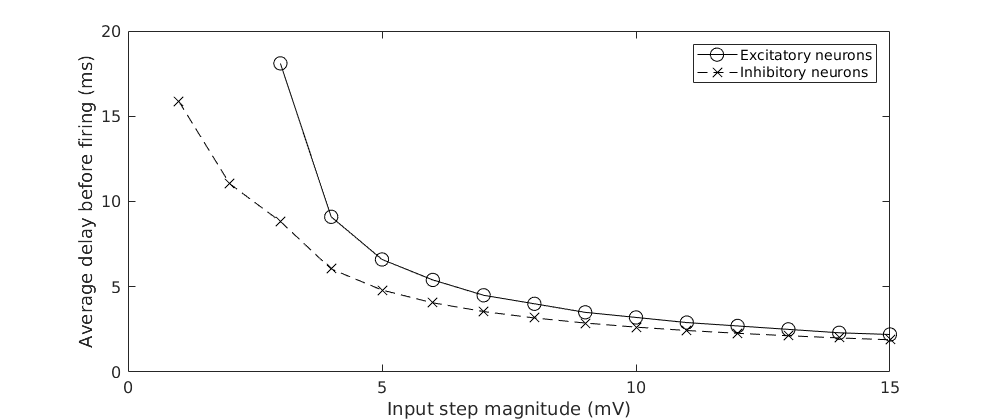
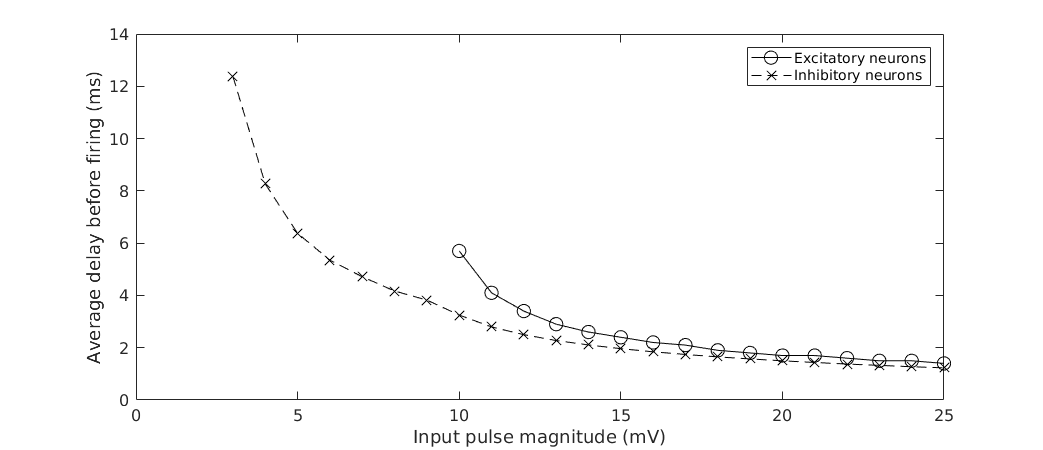
More speed updates

diff --git a/sync_paper/Delay synchronization.tex b/sync_paper/Delay synchronization.tex
@@ -315,10 +315,18 @@ This leads to each neuron receiving a stronger stimulus from the passing wave.
 The input current may push the neuron's dynamical system out of equilibrium and cause a spike, but the system dynamics take some time to evolve.
 Therefore the spike will occur with some delay after the stimulus.
 This is a common behavior in any multidimensional model of neuron dynamics, but it is not captured by the leaky integrate-and-fire model used in much of the previous research \cite{keane2015}\cite{senk2020}.
-We tested this spike delay by exposing populations of excitatory and inhibitory neurons to current steps of different magnitudes \cite{izhikevich}.
+Figure \ref{fig:delay_neuronstep} shows the delayed response of a neuron to a pulse of current.
+\begin{figure}[!htb]
+ \caption{ A pulse of current (bottom) starting at $t=100 ms$ and lasting $2 ms$ disturbs the equilibrium membrane potential of a neuron (top), elicitng a spike at $t=112 ms$. }
+ \label{fig:delay_neuronstep}
+ \centering
+   \includegraphics[width=\textwidth]{fig/WaveSpeed_NeuronStepTest}
+\end{figure}
+
+We characterized this spike delay by exposing populations of excitatory and inhibitory neurons to $2 ms$ current pulses of different magnitudes \cite{izhikevich}.
 The average firing delay of the excitatory and inhibitory neurons is shown in Figure \ref{fig:delay_neurondynamics}.
 The inhibitory neurons have a lower firing threshold than the excitatory neurons and fire with a shorter delay when given the same stimulus.
-Both excitatory and inhibitory neurons can take over $10ms$ to fire when the spike is elicited by a weak stimulus.
+Both excitatory and inhibitory neurons exhibit a delayed response of several $ms$ or more.
 \begin{figure}[!htb]
  \caption{ A stronger stimulus creates a spike with less delay. The excitatory neurons have a higher firing threshold than the inhibitory neurons and do not emit a spike for very weak stimulus.}
  \label{fig:delay_neurondynamics}

diff --git a/sim/lsm/FiringDelayTest.m b/sim/lsm/FiringDelayTest.m
@@ -31,18 +31,19 @@ delay.dt = dt;
 
 vall = []; uall = [];
 
-currentStepMag = 1:15;
+currentStepMag = 1:25;
 
 %Make column
 [a,b,c,d, S, delays, ecn] = makeColumnParameters(structure, connectivity, delay);
     
 fdelExc = [];
+    
 for jj=1:length(currentStepMag)
     %Step stimulus to all neurons at t=100 milliseconds
     stImpulse = zeros(N, size(t,2));
     sidx = 100/dt;
-    stImpulse(:, sidx:end)= currentStepMag(jj);
-    stImpulse = (interp1(0:tmax, stImpulse(:,1:1/dt:end)', 0:dt:tmax))';    
+    stImpulse(:, sidx:sidx+floor(2/dt))= currentStepMag(jj);
+    stImpulse = (interp1(0:tmax, stImpulse(:,1:1/dt:end)', 0:dt:tmax))'; 
 
     %Simulate column
     vinit=-65*ones(N,1)+0*rand(N,1);    % Initial values of v
@@ -79,13 +80,13 @@ connectivity.percentExc = 0; %All inhibitory neurons
 [a,b,c,d, S, delays, ecn] = makeColumnParameters(structure, connectivity, delay);
     
 fdelInhb = [];
-for jj=1:length(currentStepMag)
+for jj=1:length(currentStepMag)   
     %Step stimulus to all neurons at t=100 milliseconds
     stImpulse = zeros(N, size(t,2));
     sidx = 100/dt;
-    stImpulse(:, sidx:end)= currentStepMag(jj);
-    stImpulse = (interp1(0:tmax, stImpulse(:,1:1/dt:end)', 0:dt:tmax))';    
-
+    stImpulse(:, sidx:sidx+floor(2/dt))= currentStepMag(jj);
+    stImpulse = (interp1(0:tmax, stImpulse(:,1:1/dt:end)', 0:dt:tmax))'; 
+    
     %Simulate column
     vinit=-65*ones(N,1)+0*rand(N,1);    % Initial values of v
     uinit=b.*vinit;                 % Initial values of u
@@ -119,6 +120,6 @@ end
 figure; 
 plot(currentStepMag, fdelExc-100, 'ko-','MarkerSize', 10);
 hold on; plot(currentStepMag, fdelInhb-100, 'kx--','MarkerSize', 10);
-xlabel('Input step magnitude (mV)'); ylabel('Average delay before firing (ms)');
+xlabel('Input pulse magnitude (mV)'); ylabel('Average delay before firing (ms)');
 legend(['Excitatory neurons'; 'Inhibitory neurons']);
 set(gca,'FontSize', 12);

diff --git a/sim/lsm/ExcitatoryWaveSim.m b/sim/lsm/ExcitatoryWaveSim.m
@@ -30,9 +30,10 @@ delay.dt = dt;
         
 pidx=1;
 nTrials = 100;
-percentExc = 0.3:0.025:1;
+%percentExc = 0.3:0.025:1;
+percentExc = 1;
 stimStrength = 5;
-figure(20); subplot(length(percentExc),1,1); hold on;
+%figure(20); subplot(length(percentExc),1,1); hold on;
 for kk = 1:length(percentExc)
     connectivity.percentExc = percentExc(kk);
     waveSizes = []; waveFractions =[]; waveSlopes = [];
@@ -52,6 +53,7 @@ for kk = 1:length(percentExc)
 
         [v, vall, u, uall, firings] = izzy_net(vinit,uinit,dt, length(t), a, b, c, d, S, delays, sti);
         size(firings)
+        figure; plot(firings(:,1)./1000, firings(:,2)/(width*height),'k.');
         
         %figure; imagesc(vall); colorbar; title(num2str(delayMult(kk)));
 %         figure(20); subplot(length(percentExc),1,kk)

diff --git a/sim/lsm/WaveSpeed_Delay.m b/sim/lsm/WaveSpeed_Delay.m
@@ -99,3 +99,9 @@ xlabel('\kappa')
 ylabel('Speed (units/ms)')
 set(gca,'FontSize',12);
 legend('Measured wave speed', '1/\kappa');
+
+figure(7); 
+errorbar(xVals, nanmean(slopes), nanstd(slopes),'ko')
+xlabel('\kappa')
+ylabel('Transit time (ms)')
+set(gca,'FontSize',12);
